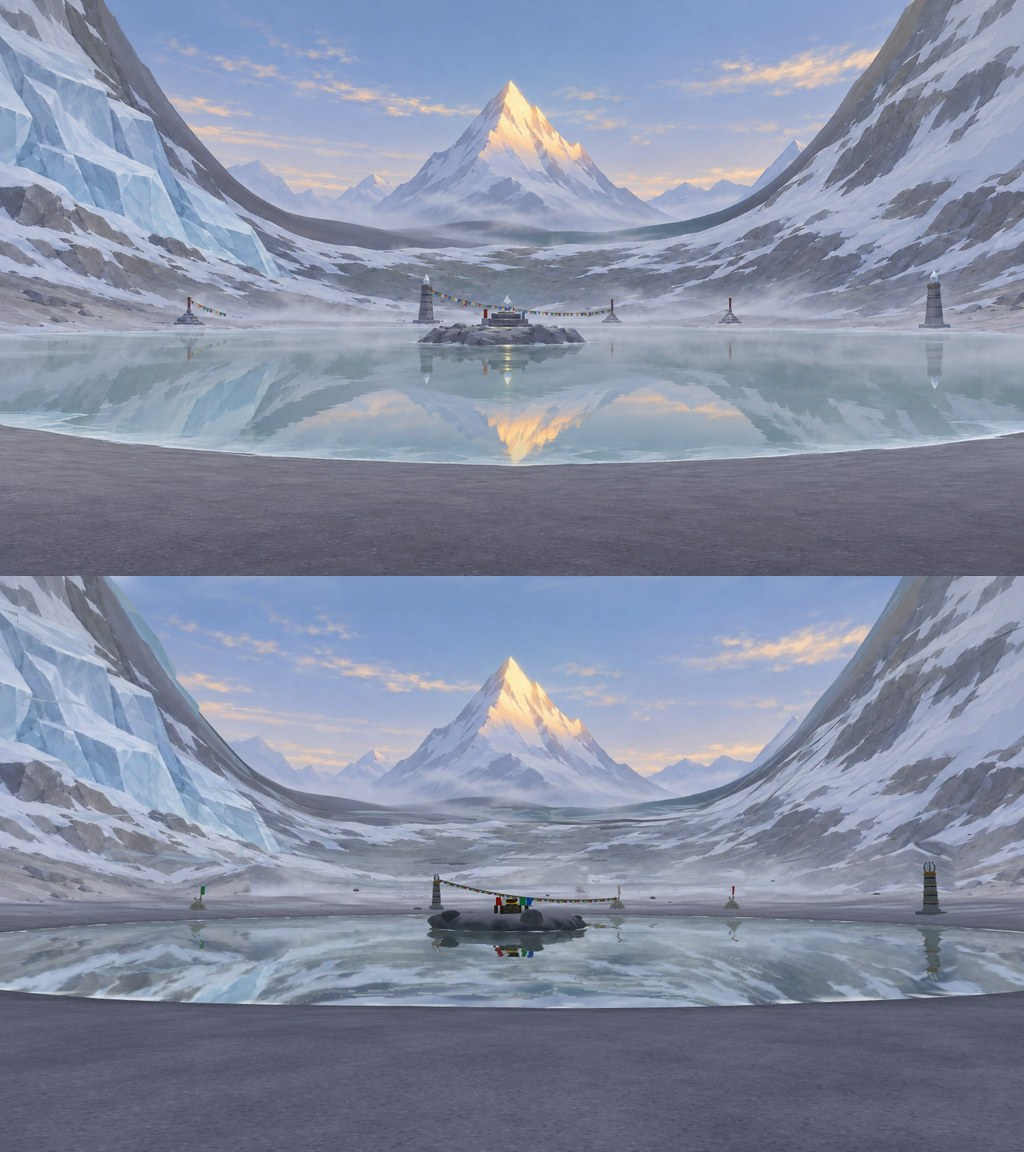
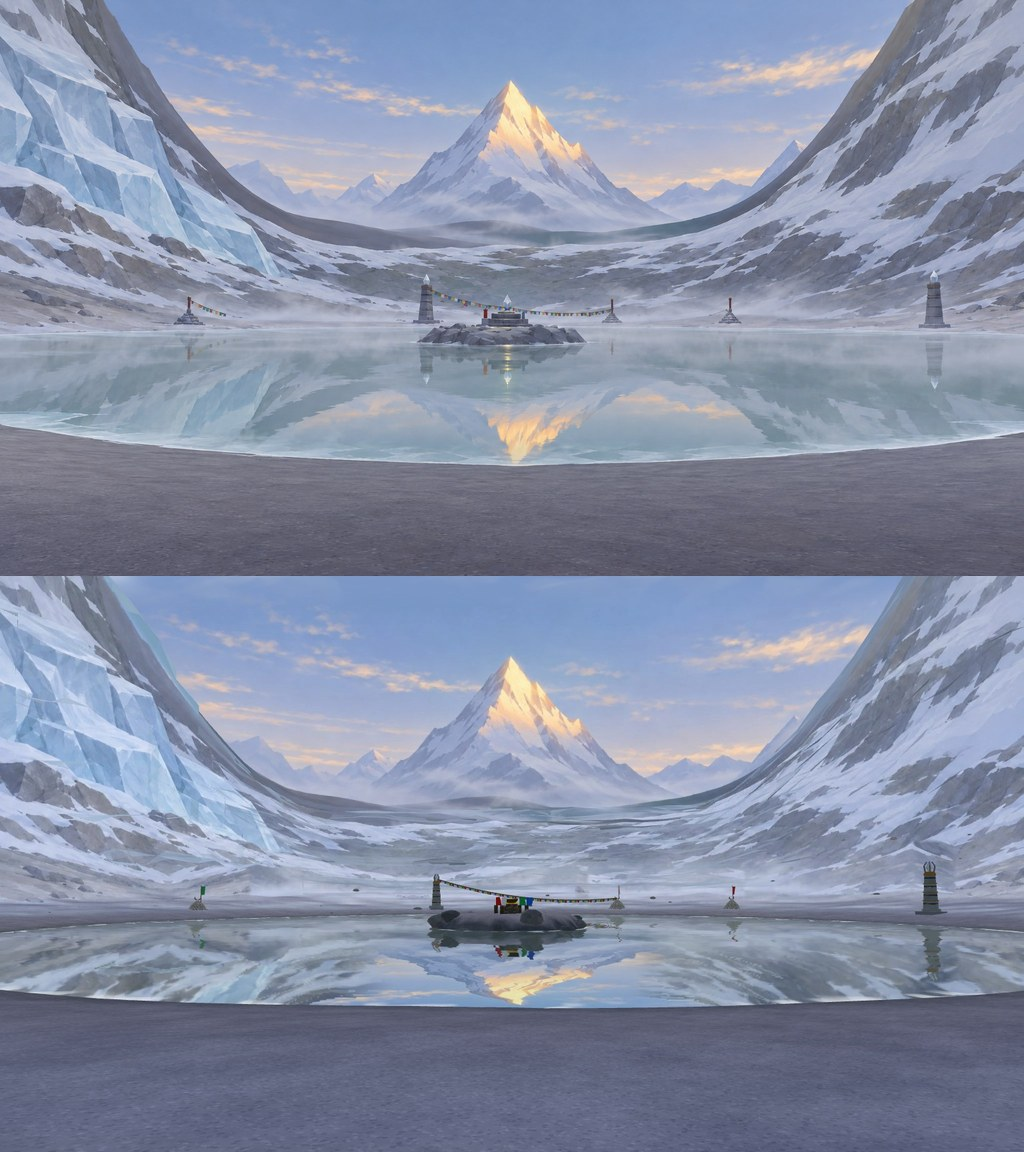
feat(plateau): 4-4 湖面加金顶倒影——远山倒影往地平线压扁（照概念图），从水面打到远山板查绘景贴图
- 反射贴图透明通道当标记：只盖天和神山方位的布景，湖心岛、柱子、雷神的倒影不动
- 云和雾不改透明通道；闪电时倒影跟着亮；离开出生点倒影和山有同样的视差

Changed region(s): [[0.3438, 0.8125, 0.6562, 0.875]]

diff --git a/src/world/haizi/scene.ts b/src/world/haizi/scene.ts
@@ -17,7 +17,7 @@ import { GrassField, buildStaticScatter } from '../plateau/scatter';
 import type { CollisionWorld } from '../plateau/walker';
 import { buildCliffs } from './cliffs';
 import { buildGlacier } from './glacier';
-import { buildFarMatte } from './farMatte';
+import { MATTE, buildFarMatte, matteCamera } from './farMatte';
 import { buildPaintProjector } from './paintProject';
 import { DAWN, FLAG_LINES, ISLAND, LAKE, PEAKS, PILLARS, PLACEMENTS, SACRED_PEAK, type PillarSpec } from './spec';
 import { buildFarTerrain, type HaiziTerrain } from './terrain';
@@ -47,6 +47,13 @@ uniform float uGlow;
 uniform float uRipple;
 uniform float uShoreR;
 uniform float uIslandR;
+uniform sampler2D tFar;
+uniform mat4 uFarVP;
+uniform vec3 uFarEye;
+uniform vec4 uFarUV;
+uniform vec3 uFarK;
+uniform vec4 uFarPlane;
+uniform float uFlash;
 varying vec4 vUv;
 varying vec3 vWorld;
 float h(vec2 p) { return fract(sin(dot(p, vec2(127.1, 311.7))) * 43758.5453); }
@@ -63,8 +70,33 @@ void main() {
   w += (vec2(n(p * 1.6 + t * 0.6), n(p * 1.7 - t * 0.5)) - 0.5) * 0.45;
   vec4 uv = vUv;
   uv.xy += w * uRipple * uv.w;
-  vec3 refl = texture2DProj(tDiffuse, uv).rgb * vec3(0.9, 0.97, 0.97);
+  vec4 tr = texture2DProj(tDiffuse, uv);
   vec3 view = normalize(cameraPosition - vWorld);
+  // 远山倒影（概念图湖里那道金顶）：按真实几何，神山（仰角 10–21°）的倒影落在离岸 9 m 以内的水面上，出生点根本看不到。
+  // 画里是把远景的倒影往地平线压扁了——这里照做：反射方向的仰角乘 uFarK.x 再去查远山绘景（farMatte.ts 的贴图，按那台相机投影）。
+  // 只盖在天和布景上（反射贴图的透明通道：天 0、冰斗壁 / 地形 0.5、柱子 / 湖心岛 / 雷神这些近处的东西 1，近处的倒影不动）；
+  // 布景只在神山方位附近盖（缺口那片坡的倒影让给金顶，两侧冰斗壁的倒影留着）
+  if (uFarK.x > 0.0) {
+    vec3 rd = vec3(-view.x, view.y, -view.z);
+    rd.xz += w * uRipple * 6.0;
+    float el = atan(rd.y, length(rd.xz)) * uFarK.x;
+    vec3 fd = vec3(normalize(rd.xz) * cos(el), sin(el)).xzy;
+    // 从水面这一点出发打到绘景那张竖直面上（uFarPlane = 相机水平朝前 xz、板的距离）：玩家走开后倒影和山一起有视差，上下对得齐
+    vec2 fw = uFarPlane.xy;
+    float tt = (uFarPlane.z - dot(vWorld.xz - uFarEye.xz, fw)) / max(dot(fd.xz, fw), 0.05);
+    vec4 fc = uFarVP * vec4(vec3(vWorld.x, uFarEye.y, vWorld.z) + fd * tt, 1.0);
+    vec2 cu = vec2(fc.x / fc.w * 0.5 + 0.5, 0.5 - fc.y / fc.w * 0.5);
+    vec2 st = vec2((cu.x - uFarUV.x) / (uFarUV.y - uFarUV.x), (cu.y - uFarUV.z) / (uFarUV.w - uFarUV.z));
+    if (dot(fd.xz, fw) > 0.05 && fc.w > 0.0 && el < 1.2 && st.x > 0.0 && st.x < 1.0 && st.y > 0.0 && st.y < 1.0) {
+      vec4 far = texture2D(tFar, vec2(st.x, 1.0 - st.y));
+      float gray = dot(far.rgb, vec3(0.299, 0.587, 0.114));
+      far.rgb = mix(far.rgb, vec3(gray) * 0.42, uFarK.z * 0.85) + vec3(0.9, 0.85, 1.0) * uFlash * 0.18;
+      float wSky = 1.0 - smoothstep(0.1, 0.4, tr.a);
+      float wScene = (1.0 - smoothstep(0.6, 0.9, tr.a)) * (1.0 - smoothstep(0.1, 0.17, abs(cu.x - uFarK.y)));
+      tr.rgb = mix(tr.rgb, far.rgb, max(wSky, wScene) * far.a);
+    }
+  }
+  vec3 refl = tr.rgb * vec3(0.9, 0.97, 0.97);
   float fres = 0.08 + 0.92 * pow(1.0 - clamp(view.y, 0.0, 1.0), 3.0);
   // 牛奶海的乳白青绿：湖心深、近岸和湖心岛周围浅
   vec3 body = mix(uDeep, uShallow, smoothstep(30.0, uShoreR, r));
@@ -105,6 +137,9 @@ export class LakeSurface {
           uTime: { value: 0 }, uDeep: { value: lin(LAKE.deep) }, uShallow: { value: lin(LAKE.shallow) },
           uTint: { value: lin('#ff4fd8') }, uTintMix: { value: 0 }, uGlow: { value: 0 }, uRipple: { value: 0.005 },
           uShoreR: { value: terrain.shorelineR(0) }, uIslandR: { value: 8.3 },
+          tFar: { value: null }, uFarVP: { value: new THREE.Matrix4() }, uFarEye: { value: new THREE.Vector3() },
+          uFarUV: { value: new THREE.Vector4(0, 1, 0, 1) }, uFarK: { value: new THREE.Vector3(0, 0.5, 0) },
+          uFarPlane: { value: new THREE.Vector4(0, -1, 1500, 0) }, uFlash: { value: 0 },
         },
         vertexShader: LAKE_VS,
         fragmentShader: LAKE_FS,
@@ -115,6 +150,7 @@ export class LakeSurface {
     this.mesh.position.y = LAKE.level;
     this.mat = this.mesh.material as THREE.ShaderMaterial;
     this.mat.uniforms.uTime = WORLD_UNIFORMS.uTime;
+    this.mat.uniforms.uFlash = WORLD_UNIFORMS.uFlash;
   }
 
   /** 水位偏移（米）：地形的 waterLevelAt、湖面网格、岸线白浪一起变 */
@@ -137,8 +173,24 @@ export class LakeSurface {
   /** 通电的电纹亮度 0..1（颜色跟 setTint 的颜色） */
   setGlow(k: number): void { this.mat.uniforms.uGlow.value = k; }
 
+  /**
+   * 远山倒影：tex = 远山绘景的贴图，cam = 画它的相机，uv = 贴图在概念图里的范围 [u0, u1, v0, v1]，
+   * squash = 倒影往地平线压扁几倍（反射仰角乘它），center = 神山在概念图里的横向位置（0..1）
+   */
+  setFarReflection(tex: THREE.Texture, cam: THREE.PerspectiveCamera, uv: [number, number, number, number], squash: number, center: number): void {
+    const u = this.mat.uniforms;
+    u.tFar.value = tex;
+    (u.uFarVP.value as THREE.Matrix4).multiplyMatrices(cam.projectionMatrix, cam.matrixWorldInverse);
+    (u.uFarEye.value as THREE.Vector3).copy(cam.position);
+    (u.uFarUV.value as THREE.Vector4).set(...uv);
+    (u.uFarK.value as THREE.Vector3).set(squash, center, 0);
+    const yaw = THREE.MathUtils.degToRad(MATTE.yawDeg);
+    (u.uFarPlane.value as THREE.Vector4).set(-Math.sin(yaw), -Math.cos(yaw), MATTE.distance, 0);
+  }
+
   /** 每帧：雷暴时浪大一点 */
   update(): void {
+    (this.mat.uniforms.uFarK.value as THREE.Vector3).z = WORLD_UNIFORMS.uStorm.value;
     this.mat.uniforms.uRipple.value = 0.005 + 0.035 * WORLD_UNIFORMS.uStorm.value;
   }
 
@@ -159,6 +211,8 @@ function linearSky(sky: THREE.Mesh): THREE.Mesh {
     const c = new THREE.Color().setRGB(v.x, v.y, v.z, THREE.SRGBColorSpace);
     m.uniforms[k] = { value: new THREE.Vector3(c.r, c.g, c.b) };
   }
+  // 反射贴图的透明通道是标记（湖面着色器用）：天 = 0
+  m.fragmentShader = m.fragmentShader.replace('gl_FragColor = vec4(col, 1.0);', 'gl_FragColor = vec4(col, 0.0);');
   const mesh = new THREE.Mesh(sky.geometry, m);
   mesh.scale.copy(sky.scale);
   mesh.renderOrder = sky.renderOrder;
@@ -366,11 +420,16 @@ export function buildHaizi(scene: THREE.Scene, terrain: HaiziTerrain, world: Col
   const reflect = lake.mesh.onBeforeRender;
   lake.mesh.onBeforeRender = function (renderer, sc, camera, geometry, material, group) {
     if (!paint.baked) paint.bake(renderer, sc as THREE.Scene, [lake.mesh, sky, skyLin]);
-    sky.visible = false; skyLin.visible = true;
+    // 远山绘景不进反射贴图：它的倒影由湖面着色器直接查贴图（压扁了的，见 LAKE_FS）
+    const farOn = far.mesh.visible;
+    sky.visible = false; skyLin.visible = true; far.mesh.visible = false;
     skyLin.position.copy(sky.position);
     reflect.call(this, renderer, sc, camera, geometry, material, group);
-    sky.visible = true; skyLin.visible = false;
+    sky.visible = true; skyLin.visible = false; far.mesh.visible = farOn;
   };
+  void far.ready.then(() => {
+    if (far.mesh.visible) lake.setFarReflection(far.texture, matteCamera(), [MATTE.u0, MATTE.u1, MATTE.v0, MATTE.v1], 2.2, 0.5);
+  });
   scene.add(lake.mesh);
 
   const flags = new FlagSystem();

diff --git a/src/dev/haiziLab.ts b/src/dev/haiziLab.ts
@@ -110,6 +110,12 @@ const lakeMist = new MistStreams([{
 const footMist = new MistStreams([{ opacity: 0.16, speed: 0.5, keys: ringKeys(96, -2.1, 2.1, 11) }]);
 // 黎明的天：低云很少（云影已经压低）、中高处几缕被晨光照暖的丝云（概念图）；天空盒自己画了太阳，不再画日晕
 const clouds = new CloudSky({ ...cloudSkyForChapter(4), low: 0.08, mid: 0.22, high: 0.5, sunGlow: 0 });
+// 湖面反射贴图的透明通道是标记（scene.ts 的 LAKE_FS：天 0、布景 0.5、近处的东西 1）：云和雾不改它，不然远山的倒影会被云雾挖出洞
+for (const m of [lakeMist.mesh, footMist.mesh, clouds.mesh]) {
+  const mat = m.material as THREE.Material;
+  if (mat.blending === THREE.NormalBlending) { mat.blending = THREE.CustomBlending; mat.blendSrc = THREE.SrcAlphaFactor; mat.blendDst = THREE.OneMinusSrcAlphaFactor; }
+  mat.blendSrcAlpha = THREE.ZeroFactor; mat.blendDstAlpha = THREE.OneFactor;
+}
 scene.add(lakeMist.mesh, footMist.mesh, clouds.mesh);
 const buildMs = performance.now() - t0;
 

diff --git a/src/world/haizi/paintProject.ts b/src/world/haizi/paintProject.ts
@@ -121,6 +121,9 @@ ${flashDecl}`)
     c = mix(c, vec3(gray) * 0.42, uStorm * 0.85) + vec3(0.9, 0.85, 1.0) * uFlash * 0.18;
     gl_FragColor.rgb = mix(gl_FragColor.rgb, linearToOutputTexel(vec4(c, 1.0)).rgb, w);
   }
+  // 透明通道当标记用（不透明材质，画面上没影响）：湖面反射贴图里 0.5 = 布景（冰斗壁 / 地形），湖面着色器据此决定远山倒影盖不盖
+  // 只有湖岸以外的才算布景；湖心岛、湖床、近岸是近处的东西（1），倒影不动
+  gl_FragColor.a = mix(1.0, 0.5, smoothstep(uPaintRange.x, uPaintRange.y, length(vPpWorld.xz)));
 }
 #include <dithering_fragment>`);
     };

diff --git a/src/world/haizi/farMatte.ts b/src/world/haizi/farMatte.ts
@@ -28,6 +28,8 @@ export const MATTE = {
 
 export interface FarMatte {
   mesh: THREE.Mesh;
+  /** 绘景贴图（湖面着色器拿它画远山的倒影） */
+  texture: THREE.Texture;
   /** 贴图加载完（截图脚本等它） */
   ready: Promise<void>;
 }
@@ -96,5 +98,5 @@ export function buildFarMatte(baseUrl: string): FarMatte {
       resolve();
     }, undefined, () => resolve());   // 加载失败：只是没有远山，场景照常
   });
-  return { mesh, ready };
+  return { mesh, texture: tex, ready };
 }

diff --git a/docs/art/concepts/ch4-631/README.md b/docs/art/concepts/ch4-631/README.md
@@ -313,7 +313,7 @@
      | 雾 | 远岸和冰斗脚一圈低雾 | `MistStreams`：湖北半边贴水面一层、冰斗脚两圈（都在玩家和雷神之间以外） |
      | 湖岸、柱、岛 | 平整碎石滩；淡色不发光的晶石；深色石堆 | 湖岸和冰斗壁不长草；晶石平时淡灰、充能才亮紫红，柱身紫线和铜箍压暗；岛上一圈灰色大石 |
      入场点 E2「冰舌脚」随冰舌挪到 (−40, −66)，reach_probe 全部通过。631（第三遍）：低饱和 65%、中间调 64%（首领场有意的窄明度带）、安静 24%；概念图本身 57% / 75% / 13%。
-   - **第四遍（11-21，用户：「这里穿帮了，光线也不像概念图」）投影绘景**（`paintProject.ts`）：缺口那片 3D 地形是一整块平白坡、湖后一堵白雾墙。改成把整张概念图从出生点相机投到冰斗壁、冰舌、缺口和远岸的 3D 地形上（替换最终颜色，画里自带光影和雾）：烘一张投影机位的深度图判遮挡，离湖心 55 m 起投、离镜头 80 m 内渐出退回程序着色（凑近会糊）；贴图 `scene_projection.webp` 由 `make_far_matte.py` 出（天和神山透明，柱子 / 经幡 / 玛尼堆 / 湖心岛用旁边的镜像纹理抹掉，不然印到山坡上）。雾带减到薄薄一层，远山板往下多留一段深色 U 形谷，碎石滩调成冷紫灰。没做：湖里的金顶倒影——从出生点的几何上看不到（金顶仰角 15–21°，湖最近处俯角才 9.6°），概念图是画的时候压扁了倒影。
+   - **第四遍（11-21，用户：「这里穿帮了，光线也不像概念图」）投影绘景**（`paintProject.ts`）：缺口那片 3D 地形是一整块平白坡、湖后一堵白雾墙。改成把整张概念图从出生点相机投到冰斗壁、冰舌、缺口和远岸的 3D 地形上（替换最终颜色，画里自带光影和雾）：烘一张投影机位的深度图判遮挡，离湖心 55 m 起投、离镜头 80 m 内渐出退回程序着色（凑近会糊）；贴图 `scene_projection.webp` 由 `make_far_matte.py` 出（天和神山透明，柱子 / 经幡 / 玛尼堆 / 湖心岛用旁边的镜像纹理抹掉，不然印到山坡上）。雾带减到薄薄一层，远山板往下多留一段深色 U 形谷，碎石滩调成冷紫灰。**湖里的金顶倒影**（第五遍，`scene.ts` 的 `LAKE_FS`）：按真实几何从出生点看不到（金顶仰角 15–21°，湖最近处俯角才 9.6°），概念图是把远景倒影往地平线压扁了——照做：远山板不进反射贴图，湖面着色器把反射方向的仰角乘 2.2、从水面那一点打到远山板的竖直面上直接查绘景贴图。反射贴图的透明通道当标记（天 0、湖岸以外的布景 0.5、湖心岛 / 柱子 / 雷神等近处的东西 1）：只盖天和神山方位的布景，近处的倒影不动；云和雾的混合不改透明通道（`haiziLab.ts`）。已知限制：首领战里半透明 / 加色特效（落雷外晕、光束外晕）的倒影落在远山倒影范围内时会被盖淡。
    - **绘景的换位核对**：`4-4_haizi_shore_views.jpg`（左 = 西岸 (−62, 10)、右 = 东岸 (62, 12)）。湖岸上走动时近处的 3D 冰斗壁和 1.5 km 外的板错开，冰斗壁后面露出来的是补画的远山和天，没有缝、没有空天；
      出图：`render_blockouts.mjs 4-4 4-4e 4-4w --out <目录>`（核对机位必须带 --out）。改了 `make_far_matte.py` 的 `BOX` / `PAD`，`farMatte.ts` 的 `MATTE.u0 / u1` 要一起改；动了出生点相机，`MATTE.eye / yawDeg / pitchDeg / fovDeg` 要和 `VIEWS['4-4']` 一致。
    - 还和概念图不一样的：湖心岛上还是 4-1 共用的灵火坛（彩色），概念图是三级石台 + 晶石——要换成套件表第 3 件；石柱、玛尼堆、巨石也还是程序白模（套件表第 1–9 件 → 四视图 → Tripo）；
